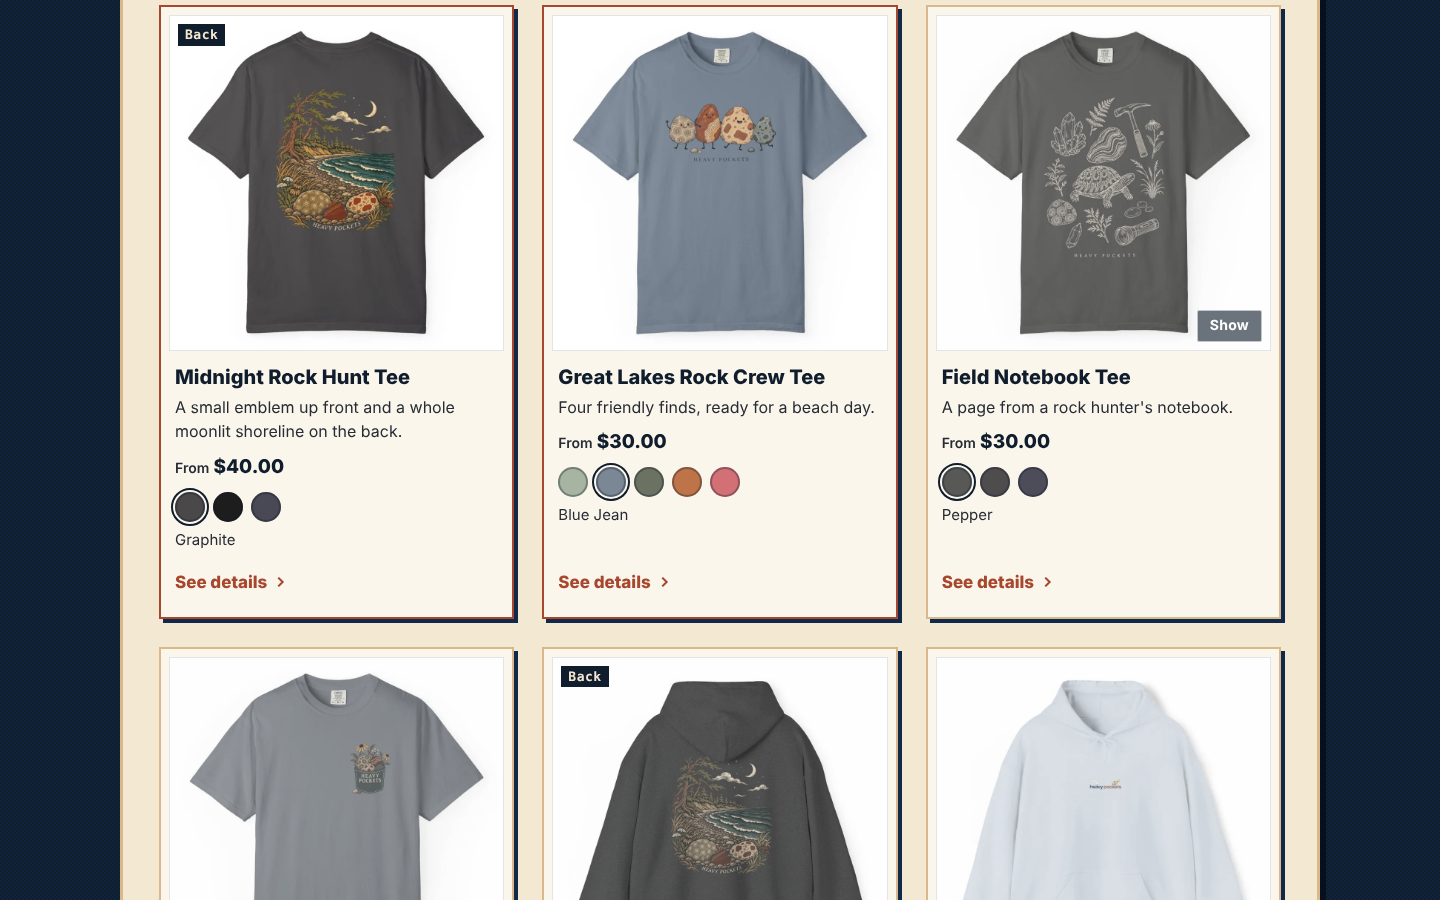
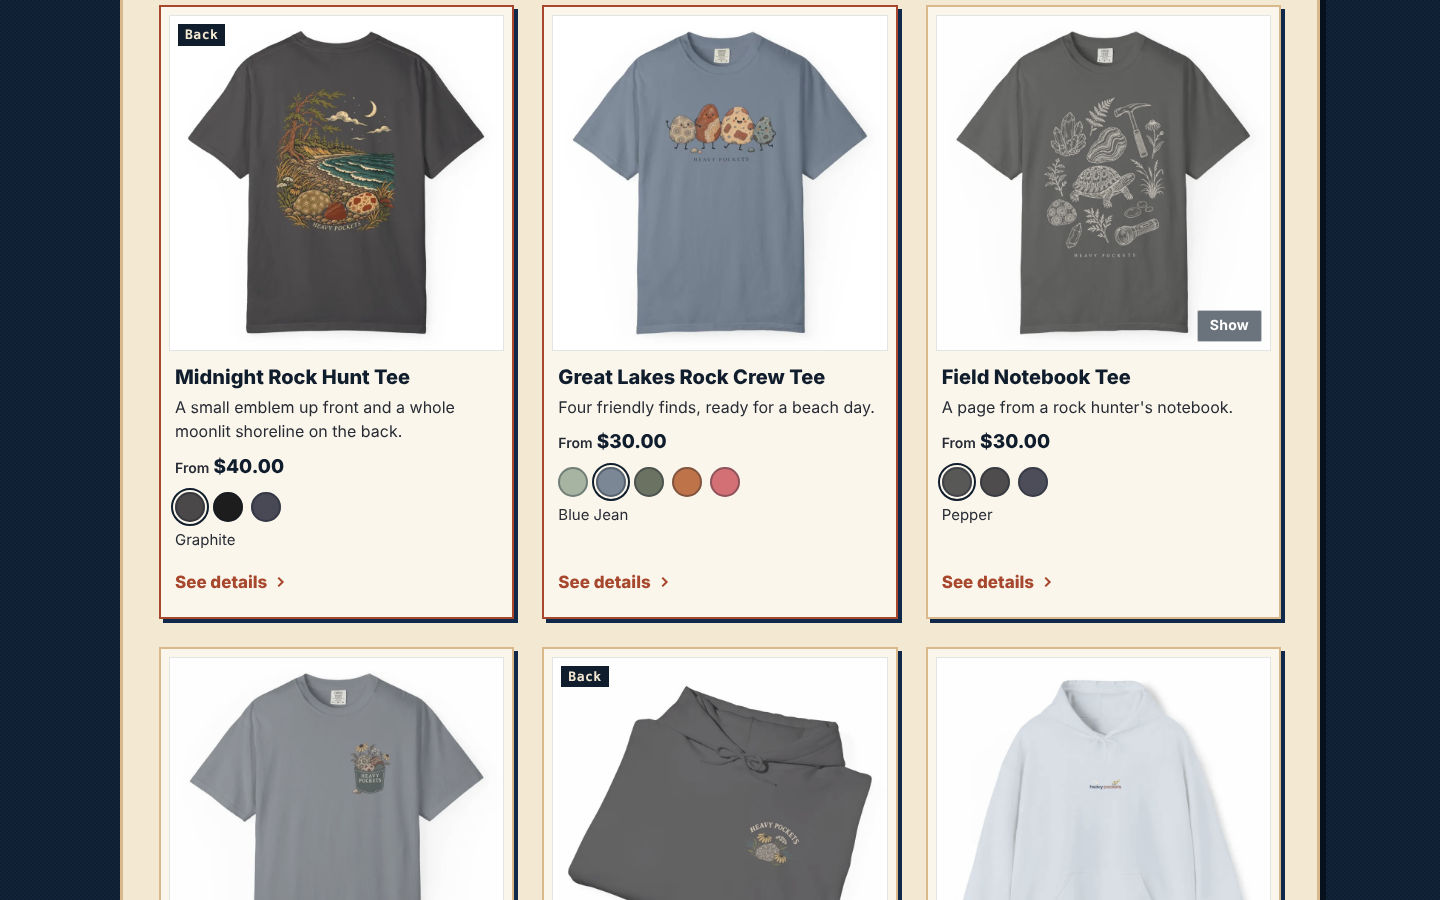
Match Printify's real photo order in Shopify and add live store checks
Printify publishes one front per color first, then each color's other
views. Color photo lookup now follows that. New qa/live_check.js checks
the uploaded theme on the real store (32 of 33 pass; Field Notes page
not created yet).

Claude-Session: https://claude.ai/code/session_01AdWLFqRUEbAU5Vm5AJexkS

Changed region(s): [[0.375, 0.7467, 0.625, 1.0]]

diff --git a/theme/shopify/qa/live_check.js b/theme/shopify/qa/live_check.js
@@ -1,0 +1,88 @@
+#!/usr/bin/env node
+/* Checks the uploaded (unpublished) theme on the real Shopify store.
+   Usage: node theme/shopify/qa/live_check.js <storefront-password> [theme-id]
+   Needs the store host allowed in the network settings. It adds one item to a
+   cart in this test browser only, then empties that cart. It never checks out.
+   Screenshots go to qa/screens/live-*.png. */
+'use strict';
+const { chromium } = require('playwright');
+const path = require('path');
+const fs = require('fs');
+const [PW, THEME = '131897917498'] = process.argv.slice(2);
+if (!PW) { console.error('usage: live_check.js <storefront-password> [theme-id]'); process.exit(2); }
+const S = 'https://rjrxi5-ji.myshopify.com', T = 'preview_theme_id=' + THEME;
+const OUT = path.join(__dirname, 'screens');
+fs.mkdirSync(OUT, { recursive: true });
+const SRC = JSON.parse(fs.readFileSync(path.resolve(__dirname, '../../v3/src/products.json'), 'utf8'));
+const H = SRC.products.map((p) => p.slug);
+let pass = 0, fail = 0; const out = [];
+const check = (n, ok, info) => { out.push((ok ? 'PASS ' : 'FAIL ') + n + (ok ? '' : ' -> ' + JSON.stringify(info))); ok ? pass++ : fail++; };
+
+(async () => {
+  const b = await chromium.launch();
+  const ctx = await b.newContext({ viewport: { width: 1440, height: 900 } });
+  const p = await ctx.newPage(); const errs = [], failed = [];
+  // only errors thrown by our theme.js; Shopify's own trackers fail here because this test machine blocks them
+  p.on('pageerror', (e) => { if (/theme\.js/.test(e.stack || '')) errs.push(e.message); });
+  p.on('requestfailed', (r) => failed.push(r.url().slice(0, 100)));
+  await p.goto(S + '/password');
+  await Promise.all([p.waitForNavigation(), p.evaluate((pw) => { const i = document.querySelector('input[name=password]'); i.value = pw; i.form.submit(); }, PW)]);
+
+  await p.goto(S + '/?' + T, { waitUntil: 'networkidle' });
+  check('home: the Heavy Pockets theme is showing', !!(await p.$('.card[data-product]')));
+  const cards = await p.$$eval('.card[data-product]', (c) => c.map((x) => x.dataset.product));
+  check('home: six cards in the approved order', JSON.stringify(cards) === JSON.stringify(H), cards);
+  for (const el of await p.$$('.card')) await el.scrollIntoViewIfNeeded();
+  await p.waitForTimeout(800);
+  const loaded = await p.$$eval('.card .wet__base img', (i) => i.filter((x) => x.naturalWidth > 0).length);
+  check('home: card photos load', loaded === 6, loaded);
+  await p.evaluate(() => window.scrollTo(0, 0));
+  await p.screenshot({ path: path.join(OUT, 'live-home.png') });
+
+  for (const h of H) {
+    const j = await p.evaluate(async (h) => (await fetch('/products/' + h + '.js')).json(), h);
+    const ci = j.options.findIndex((o) => /colou?r/i.test(o.name));
+    await p.goto(S + '/products/' + h + '?' + T, { waitUntil: 'networkidle' });
+    const d = await p.$eval('[data-product-json]', (s) => JSON.parse(s.textContent));
+    const counts = d.colors.map((c) => c.images.length);
+    check(h + ': four photos per color', counts.every((n) => n === 4), counts);
+    const file = (u) => u.split('?')[0].split('/').pop().replace(/\.\w+$/, '');
+    const bad = d.colors.filter((c) => {
+      const v = j.variants.find((x) => x.options[ci] === c.name);
+      return !(v && v.featured_image && c.images[0] && file(c.images[0]) === file(v.featured_image.src));
+    }).map((c) => c.name);
+    check(h + ': each color starts with its own front photo', bad.length === 0, bad);
+    const all = d.colors.flatMap((c) => c.images.map(file));
+    check(h + ': no photo is shared by two colors', new Set(all).size === all.length);
+    await p.waitForTimeout(500);
+    const thumbsOk = await p.$$eval('.thumb img', (i) => i.every((x) => x.complete && x.naturalWidth > 0));
+    check(h + ': thumbnails load', thumbsOk);
+    await p.screenshot({ path: path.join(OUT, 'live-' + h + '.png') });
+  }
+
+  const h = H[1];
+  await p.goto(S + '/products/' + h + '?' + T, { waitUntil: 'networkidle' });
+  await p.click('.opt--color:nth-of-type(2)');
+  await p.click('label.opt:has(input[value="2XL"])');
+  const price = await p.$eval('[data-price]', (e) => e.textContent);
+  check('product: 2XL price is $32', price === '$32.00', price);
+  await p.click('[data-buy] button[type=submit]');
+  await p.waitForTimeout(2500);
+  const msg = await p.$eval('[data-buy-msg]', (e) => e.textContent);
+  check('product: add to cart works on the real store', /^Added to your cart/.test(msg), msg);
+  await p.goto(S + '/cart?' + T, { waitUntil: 'networkidle' });
+  const line = await p.$eval('.line', (e) => e.innerText).catch(() => '');
+  check('cart: shows the item with color, size, and price', /Great Lakes Rock Crew Tee/.test(line) && /Blue Jean/.test(line) && /2XL/.test(line) && /\$32\.00/.test(line), line);
+  await p.screenshot({ path: path.join(OUT, 'live-cart.png') });
+  await p.evaluate(() => fetch('/cart/clear.js', { method: 'POST' }));
+  const left = await p.evaluate(async () => (await (await fetch('/cart.js')).json()).item_count);
+  check('cart: emptied after the test', left === 0, left);
+
+  await p.goto(S + '/pages/field-notes?' + T, { waitUntil: 'networkidle' });
+  check('Field Notes page exists in Shopify', !!(await p.$('[data-stone]')), p.url());
+  check('no script errors from theme.js', errs.length === 0, errs);
+  const report = out.join('\n') + `\n\n${pass} passed, ${fail} failed\nFailed network requests (often Shopify's own trackers): ${JSON.stringify([...new Set(failed)].slice(0, 8))}\n`;
+  fs.writeFileSync(path.join(__dirname, 'live-last-run.txt'), report);
+  console.log(report);
+  await b.close();
+})().catch((e) => { console.error(e); process.exit(1); });

diff --git a/theme/shopify/qa/mock_render.js b/theme/shopify/qa/mock_render.js
@@ -31,16 +31,24 @@ function toShopify(pf, handle) {
     return { id: v.id, title: v.title, price: v.price, available: v.is_available !== false, options: opts };
   });
   const byId = Object.fromEntries(variants.map((v) => [v.id, v]));
-  // Worst case: Printify links only each color's first mockup to that color's variants.
-  const seen = new Set();
-  const images = pf.images.filter((im) => im.is_selected_for_publishing).map((im) => {
+  // The real layout (checked on the store, Nov 12, 2026): one linked front per color
+  // first, then each color's other views as a group in the same color order, then
+  // the size chart, which has no variant link.
+  const ci = names.indexOf('Color');
+  const all = pf.images.filter((im) => im.is_selected_for_publishing).map((im) => {
     const vs = im.variant_ids.map((i) => byId[i]).filter(Boolean);
-    const color = vs[0] && vs[0].options[names.indexOf('Color')];
-    const linked = color && !seen.has(color) && im.is_default;
-    if (linked) seen.add(color);
     const cam = (/camera_label=([a-z0-9-]+)/.exec(im.src) || [])[1] || 'x';
-    return { src: `https://cdn.example/${handle}/${String(color || 'none').replace(/\W+/g, '-')}-${cam}.png`, variants: linked ? vs : [], alt: '' };
+    const color = cam === 'size-chart' ? null : vs[0] && vs[0].options[ci];
+    return { cam, color, vs, src: `https://cdn.example/${handle}/${String(color || 'none').replace(/\W+/g, '-')}-${cam}.png`, alt: '' };
   });
+  const fronts = all.filter((im) => im.cam === 'front' && im.color);
+  const rest = all.filter((im) => im.cam !== 'front' && im.cam !== 'size-chart');
+  const charts = all.filter((im) => im.cam === 'size-chart');
+  const images = [
+    ...fronts.map((im) => ({ src: im.src, alt: '', variants: im.vs })),
+    ...fronts.flatMap((f) => rest.filter((im) => im.color === f.color)).map((im) => ({ src: im.src, alt: '', variants: [] })),
+    ...charts.map((im) => ({ src: im.src, alt: '', variants: [] })),
+  ];
   variants.forEach((v) => { v.featured_image = images.find((im) => im.variants.includes(v)) || null; });
   const prices = variants.map((v) => v.price);
   return {

diff --git a/theme/shopify/qa/run_qa.js b/theme/shopify/qa/run_qa.js
@@ -148,6 +148,10 @@ async function visibleText(page) { return page.evaluate(() => document.body.inne
       const vid = await page.$eval('[data-buy] input[name=id]', (i) => i.value);
       const pdata = await page.$eval('[data-product-json]', (s) => JSON.parse(s.textContent));
       const v = pdata.variants.find((x) => String(x.id) === vid);
+      const wrong = pdata.colors.flatMap((c) => c.images.filter((u) => !u.includes('/' + c.name.replace(/\W+/g, '-') + '-')).map((u) => c.name + ': ' + u));
+      check(`${mode} ${p.slug}: every photo is filed under its own color`, wrong.length === 0, wrong.slice(0, 3));
+      const counts = pdata.colors.map((c) => c.images.length);
+      check(`${mode} ${p.slug}: four mockups per color`, counts.every((n) => n === 4), counts);
       check(`${mode} ${p.slug}: chosen variant matches color and size`, v && v.options[pdata.colorPos] === p.colors[1] && v.options[pdata.sizePos] === '2XL', v);
       await page.click('[data-buy] button[type=submit]');
       await page.waitForTimeout(300);

diff --git a/CLAUDE.md b/CLAUDE.md
@@ -10,7 +10,7 @@ The full step-by-step plan is in `PLAN.md`.
 
 ## Current status
 
-- **Step 13 theme built (Nov 12, 2026, newest):** the approved v3 preview rebuilt as a custom Shopify theme in `theme/shopify/` (custom instead of Dawn, because v3 is already a full design system; see `theme/shopify/README.md`). Products, prices, photos, cart, and checkout come from Shopify; the approved product copy comes from `theme/v3/src/products.json` through `node theme/shopify/build.js`. Mailing list saves to Shopify customers (tags `newsletter`, `dibs`). Local mock render plus 293 browser checks pass; Theme Check 0 errors. **Uploaded Nov 12, 2026 as an UNPUBLISHED theme "Heavy Pockets" (id 131897917498); the live theme is still Shopify's default, Horizon.** Upload command (from `theme/shopify/`): `NODE_USE_ENV_PROXY=1 npx shopify theme push --store rjrxi5-ji.myshopify.com --password shptka_proxyinjected00000000000000 --theme 131897917498` (the password value is a dummy; the proxy injects the real Theme Access password, saved as a network secret for `theme-kit-access.shopifyapps.com`). Node's fetch ignores the proxy without `NODE_USE_ENV_PROXY=1`. Next: check the theme on the real store (needs the storefront password), Brian previews it. Brian also creates a page titled Field Notes (template `page.field-notes`).
+- **Step 13 theme built (Nov 12, 2026, newest):** the approved v3 preview rebuilt as a custom Shopify theme in `theme/shopify/` (custom instead of Dawn, because v3 is already a full design system; see `theme/shopify/README.md`). Products, prices, photos, cart, and checkout come from Shopify; the approved product copy comes from `theme/v3/src/products.json` through `node theme/shopify/build.js`. Mailing list saves to Shopify customers (tags `newsletter`, `dibs`). Local mock render plus 293 browser checks pass; Theme Check 0 errors. **Uploaded Nov 12, 2026 as an UNPUBLISHED theme "Heavy Pockets" (id 131897917498); the live theme is still Shopify's default, Horizon.** Upload command (from `theme/shopify/`): `NODE_USE_ENV_PROXY=1 npx shopify theme push --store rjrxi5-ji.myshopify.com --password shptka_proxyinjected00000000000000 --theme 131897917498` (the password value is a dummy; the proxy injects the real Theme Access password, saved as a network secret for `theme-kit-access.shopifyapps.com`). Node's fetch ignores the proxy without `NODE_USE_ENV_PROXY=1`. Checked on the real store Nov 12 (`node theme/shopify/qa/live_check.js <store password>`): 32 of 33 pass; the miss is the Field Notes page, not created yet. The real store showed Printify publishes one front photo per color first, then each color's other views; `hp-color-urls.liquid` was fixed for that. The storefront password is not stored in the repo; ask Brian. Next: Brian previews the theme, creates the Field Notes page (template `field-notes`), and renames the store from "My Store" to Heavy Pockets Co. (Settings, General). Publishing the theme is Brian's call.
 - **Shopify opened (Nov 12, 2026):** Brian signed up on the $1 intro offer (Basic): store **rjrxi5-ji.myshopify.com** (Shopify picked the address; customers never see it once the domain is connected). Password on. Printify is connected (shop 29566047, sales_channel "shopify"). Before publishing, Claude fixed three things in Printify: variant prices set to the approved prices (`pricing.json`), em dashes removed from titles (now just the product name), and the Midnight description's generic Comfort Colors text replaced with the approved v3 blurb, story, and print note. Then all six products were published from Printify to Shopify (still behind the password). heavypocketsco.com is not connected to Shopify; the coming-soon page stays live. The $1 price ends around Feb 15, 2027 (3 free days plus 3 months); a scheduled reminder (trig_0114SfQL895rp2aSrSc9HHZA) fires Feb 5, 2027, by push notification. Next: Step 13, rebuilding the v3 preview as a Shopify theme. That needs the myshopify host allowed and a Shopify access token saved as a network secret.
 - **Storefront preview v3 (Nov 7, 2026):** complete private shopping preview of the six current products, built from Brian's storefront brief. Branch `claude/clever-curie-pxflzz`, folder `theme/v3/`, handoff in `theme/v3/HANDOFF.md` (tests, limitations, missing assets, next steps). New lowercase wordmark (option A, provisional trace) in `brand/v3/wordmark/`. Private preview link: see "Preview link" below. **Approved by Brian, Nov 7, 2026** ("Everything is approved"). Merged into `main` via PR #5 on Nov 7, 2026, at Brian's request. Not deployed: merging changes nothing live.
 - **Coming-soon page (deployed Nov 7, 2026):** heavypocketsco.com now shows the v3-brand coming-soon page. Source, generator, and tests in `site/coming-soon/` (`node site/coming-soon/build.js`, `node site/coming-soon/qa/run_qa.mjs`); deploy and rollback steps in `site/coming-soon/README.md`; rollback copy in `site/coming-soon/live-2026-11-04/`. Brian's choices: rockhound and day and night switch kept, teaser only, email-only signup (existing entries never rewritten), bubble option A. Same `DIBS` list. Private preview: https://claude.ai/artifact/MUL1QQ3WVDEKmkyCFd8NEN. `www.heavypocketsco.com` is attached to the Worker as a custom domain (Nov 7, 2026) and redirects to the bare domain. Cloudflare Web Analytics (the visitor counter, no cookies) is allowed by the page's security policy since Nov 7, 2026; see counts in the Cloudflare dashboard under Analytics & Logs, Web Analytics.
@@ -192,3 +192,4 @@ Fact idea: Leland Blue is slag from a 19th-century iron smelter in Leland, Michi
 - **2026-11-11:** Brian realized the approved v3 preview must be rebuilt as a Shopify theme, so Shopify moves up. Explained what carries over (CSS, wet reveal script, images, and wording) and what gets rebuilt (Liquid templates, products and prices from Printify through Shopify, real cart and checkout). Brian chose the $1 intro offer (3 days free, then $1/mo for 3 months, Basic) over a free development store. Updated PLAN.md and wrote `brand/Step12_Shopify_Checklist.md`. Store stays password-protected; the coming-soon page stays live. Next: Brian signs up.
 - **2026-11-12:** Brian opened Shopify (rjrxi5-ji.myshopify.com, $1 offer, Basic) and connected Printify. Claude set approved prices, removed em dashes from titles, replaced the Midnight boilerplate description in Printify, then published all six products to Shopify (password still on, domain not connected). Scheduled a push reminder for Feb 5, 2027, a week before the $1 months end. Next: Step 13 theme rebuild.
 - **2026-11-12 (later):** Step 13 started. Built `theme/shopify/` from the v3 preview (custom theme, not Dawn). Fixed during testing: default color now follows the approved order, sizes always sort S to 5XL. 293 local browser checks and Theme Check pass. Allowed the myshopify host. Waiting on Brian for the Theme Access password, then upload as an unpublished theme.
+- **2026-11-12 (later):** Brian installed Theme Access; its password is a network secret. Uploaded the theme as unpublished "Heavy Pockets" (id 131897917498). Shopify's parser caught a brace bug liquidjs missed; fixed. With the store password, checked the real store: photo grouping differed from the guess (fronts first), fixed and confirmed; add to cart and cart work (test cart emptied). 317 local checks and 32 of 33 live checks pass (Field Notes page still to create). Live theme is still Horizon.

diff --git a/theme/shopify/README.md b/theme/shopify/README.md
@@ -48,4 +48,12 @@ node theme/shopify/qa/run_qa.js <mock-out-dir>
 
 `mock_render.js` renders the pages with fake Shopify data built from the Printify JSON. It assumes the worst case for photos: Printify links only each color's first mockup to that color, and the rest follow in order. `run_qa.js` clicks through the home page, all six product pages, the cart, and Field Notes on desktop and a phone size, plus a JavaScript-off check. Last run: 293 checks passed (`qa/last-run.txt`). Shopify's own Theme Check: 0 errors (6 warnings, all for the Google Fonts links, same as v3).
 
-This is a stand-in for Shopify, so the real test is the unpublished theme on the store.
+This is a stand-in for Shopify, so the real test is the unpublished theme on the store:
+
+```
+node theme/shopify/qa/live_check.js <storefront-password>
+```
+
+It logs in with the store password, checks every product and color on the uploaded theme, adds one item to a test cart, empties it, and never checks out. Last run (Nov 12, 2026): 32 passed, 1 failed (the Field Notes page is not created in Shopify yet). Results: `qa/live-last-run.txt`.
+
+**How Printify's photos land in Shopify** (found on the real store, Nov 12, 2026): one front photo per color first, each linked to that color's variants; then every color's other views as a group, in the same color order; then the size chart. `snippets/hp-color-urls.liquid` relies on this. If Printify ever changes it, `live_check.js` will catch it ("each color starts with its own front photo," "four photos per color").
